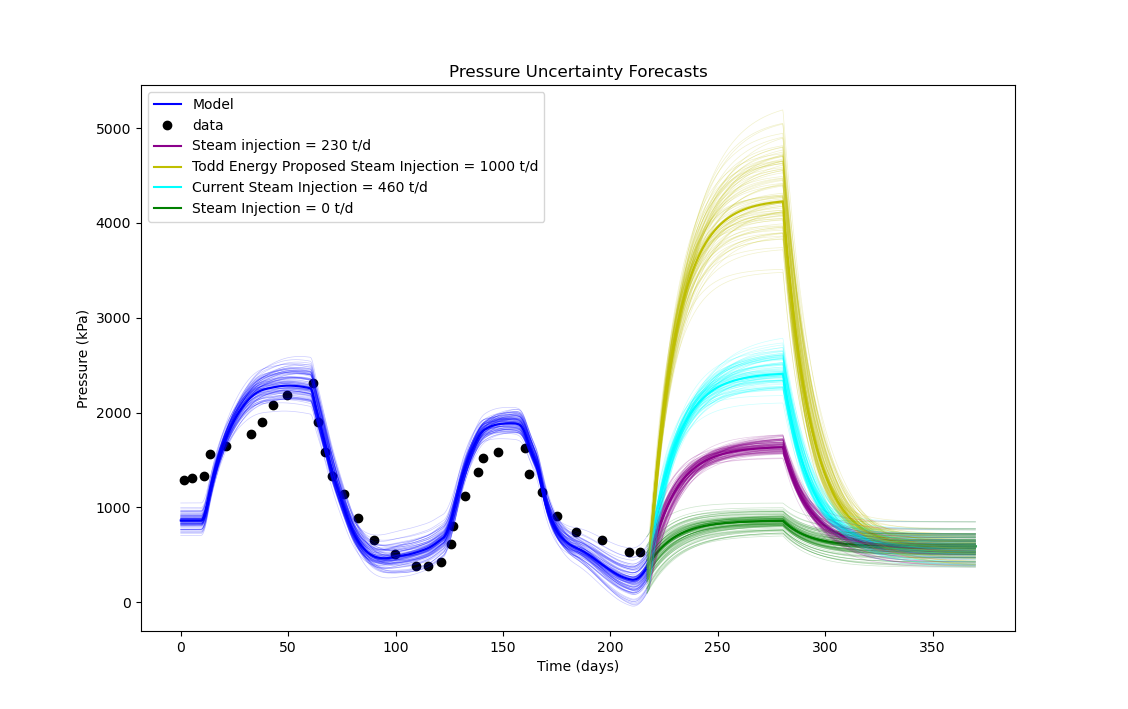
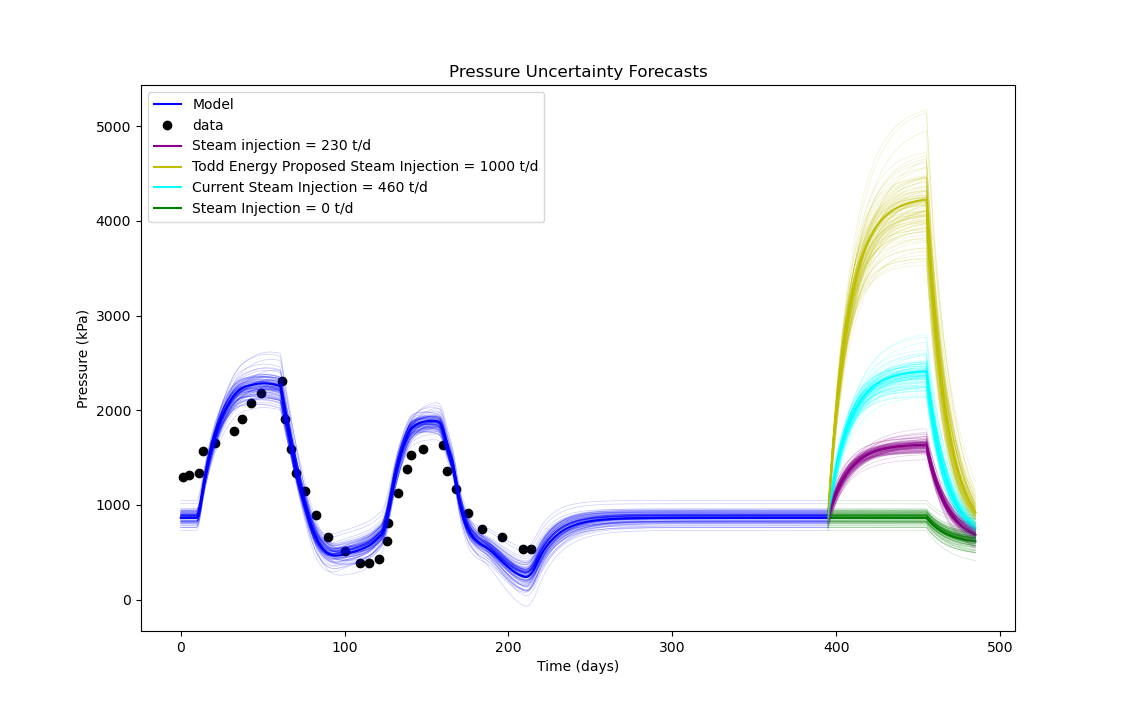
Updated forecasts and uncertainty plots with correct time domain

diff --git a/main.py b/main.py
@@ -134,7 +134,7 @@ class Qterms:
         self.interpSteam = interp1d(steam[0], steam[1])
 
         # Storing the time values for injection end and projection end of forecasts.
-        self.forcInjecEnd = temp[0][-1] + 60
+        self.forcInjecEnd = 395 + 60
         self.forcProducEnd = self.forcInjecEnd + 90
 
         # Assigns value to be used for qs during injection period.
@@ -285,8 +285,9 @@ if __name__ == "__main__":
     [ax.grid() for ax in axa] 
 
 
+
     # Initial pressure model fitting:
-    t1=np.linspace(0,217,2170)
+    t1=np.linspace(0,395,3950)
 
     # first pressure model initial guesses:
     a = 0.2
@@ -310,8 +311,8 @@ if __name__ == "__main__":
     ax9[1].plot(pressure[0],pressureMisfit,'kx')
     ax9[1].plot(pressure[0],np.zeros(len(pressureMisfit)),'r--')
     ax9[0].plot(t1,P,'k--',label='a = {:3f}\nb = {:3f}'.format(parsFoundP[0],parsFoundP[1]))
-    ax9[0].set_xlim([0, tsolP[-1]])
-    ax9[1].set_xlim([0, tsolP[-1]])
+    ax9[0].set_xlim([0, pressure[0][-1]])
+    ax9[1].set_xlim([0, pressure[0][-1]])
     ax9[0].set_ylabel('Pressure [kPa]')
     ax9[0].set_xlabel('Time [days]')
     ax9[0].set_title('Comparison of model to observed pressure value')
@@ -341,8 +342,8 @@ if __name__ == "__main__":
     ax8[0].plot(t1, np.ones(len(t1)) * 240, 'g-', label = 'Toxic Contaminant\nDissociation Temperature')
     ax8[1].plot(temp[0],tempMisfit,'kx')
     ax8[1].plot(temp[0],temp[0]*0,'r--')
-    ax8[0].set_xlim([0, t1[-1]])
-    ax8[1].set_xlim([0, t1[-1]])
+    ax8[0].set_xlim([0, temp[0][-1]])
+    ax8[1].set_xlim([0, temp[0][-1]])
     ax8[0].set_ylabel('Temperature [°C]')
     ax8[0].set_xlabel('Time [days]')
     ax8[0].set_title('Comparison of model to observed \n temperature value')
@@ -374,8 +375,8 @@ if __name__ == "__main__":
     ax1[1].plot(pressure[0],pressureMisfit,'kx')
     ax1[1].plot(pressure[0],np.zeros(len(pressureMisfit)),'r--')
     ax1[0].plot(t1,P,'k--',label='a = {:3f}\nb = {:3f}\nP0 = {:3f}'.format(parsFoundP[0],parsFoundP[1],parsFoundP[2]))
-    ax1[0].set_xlim([0, tsolP[-1]])
-    ax1[1].set_xlim([0, tsolP[-1]])
+    ax1[0].set_xlim([0, pressure[0][-1]])
+    ax1[1].set_xlim([0, pressure[0][-1]])
     ax1[0].set_ylabel('Pressure [kPa]')
     ax1[0].set_xlabel('Time [days]')
     ax1[0].set_title('Comparison of model to observed pressure value')
@@ -406,8 +407,8 @@ if __name__ == "__main__":
     ax2[0].plot(t1, np.ones(len(t1)) * 240, 'g-', label = 'Toxic Contaminant\nDissociation Temperature')
     ax2[1].plot(temp[0],tempMisfit,'kx')
     ax2[1].plot(temp[0],temp[0]*0,'r--')
-    ax2[0].set_xlim([0, t1[-1]])
-    ax2[1].set_xlim([0, t1[-1]])
+    ax2[0].set_xlim([0, temp[0][-1]])
+    ax2[1].set_xlim([0, temp[0][-1]])
     ax2[0].set_ylabel('Temperature [°C]')
     ax2[0].set_xlabel('Time [days]')
     ax2[0].set_title('Comparison of model to observed \n temperature value')
@@ -422,7 +423,7 @@ if __name__ == "__main__":
 
 
     # Forecasts:
-    tf = np.linspace(0, 370, 3700)
+    tf = np.linspace(t1[-1], 485, 900)
     # Forecast 1
     # Tood Energy proposal of steam injection of 1000 tonnes per day 60 days, followed by 90 day production periods.
     Qf1 = Qterms(1000)
@@ -475,10 +476,10 @@ if __name__ == "__main__":
     f5, ax5 = plt.subplots(1,1)
     ax5.plot(t1, P, 'b-', label = 'Model')
     ax5.plot(pressure[0], pressure[1], 'ko', label = 'data')
-    ax5.plot(tf[startForc:], FP4[startForc:], color = '#8B008B', ls = '-', label = 'Steam Injection = 230 t/d')
-    ax5.plot(tf[startForc:], FP1[startForc:], 'y-', label = 'Todd Energy Proposed Steam Injection = 1000 t/d')
-    ax5.plot(tf[startForc:], FP3[startForc:], color = '#00FFFF', ls = '-', label = 'Current Steam Injection = 460 t/d')
-    ax5.plot(tf[startForc:], FP2[startForc:], 'g-', label = 'Steam Injection = 0 t/d')
+    ax5.plot(tf, FP4, color = '#8B008B', ls = '-', label = 'Steam Injection = 230 t/d')
+    ax5.plot(tf, FP1, 'y-', label = 'Todd Energy Proposed Steam Injection = 1000 t/d')
+    ax5.plot(tf, FP3, color = '#00FFFF', ls = '-', label = 'Current Steam Injection = 460 t/d')
+    ax5.plot(tf, FP2, 'g-', label = 'Steam Injection = 0 t/d')
     ax5.legend()
     ax5.text(x = 10, y = 130, s = 'All forecasted injection phases are 60 days, followed by 90 day production periods.', bbox = dict(facecolor='none', edgecolor='black', pad=5.0))
     ax5.set_xlim([t1[0], tf[-1]])
@@ -490,10 +491,10 @@ if __name__ == "__main__":
     fig,ax = plt.subplots(1,1)
     ax.plot(t1, P, 'b-', label = 'Model')
     ax.plot(pressure[0], pressure[1], 'ko', label = 'data')
-    ax.plot(tf[startForc:], FP4[startForc:], color = '#8B008B', ls = '-', label = 'Steam injection = 230 t/d')
-    ax.plot(tf[startForc:], FP1[startForc:], 'y-', label = 'Todd Energy Proposed Steam Injection = 1000 t/d')
-    ax.plot(tf[startForc:], FP3[startForc:], color = '#00FFFF', ls = '-', label = 'Current Steam Injection = 460 t/d')
-    ax.plot(tf[startForc:], FP2[startForc:], 'g-', label = 'Steam Injection = 0 t/d')
+    ax.plot(tf, FP4, color = '#8B008B', ls = '-', label = 'Steam injection = 230 t/d')
+    ax.plot(tf, FP1, 'y-', label = 'Todd Energy Proposed Steam Injection = 1000 t/d')
+    ax.plot(tf, FP3, color = '#00FFFF', ls = '-', label = 'Current Steam Injection = 460 t/d')
+    ax.plot(tf, FP2, 'g-', label = 'Steam Injection = 0 t/d')
     ax.set_title('Pressure Uncertainty Forecasts')
     ax.set_xlabel('Time (days)')
     ax.set_ylabel('Pressure (kPa)')
@@ -520,10 +521,10 @@ if __name__ == "__main__":
         t, FP4 = solvePressure(tf, tf[1]-tf[0], pi[2], Qf4.giveQ, pi)
         #plotting commands
         ax.plot(tsolP, P, 'b-', alpha=0.2, lw=0.5)
-        ax.plot(tf[startForc:], FP4[startForc:], color = '#8B008B', alpha=0.2, lw=0.5)
-        ax.plot(tf[startForc:], FP1[startForc:], 'y-', alpha=0.2, lw=0.5)
-        ax.plot(tf[startForc:], FP3[startForc:], color = '#00FFFF', alpha=0.2, lw=0.5)
-        ax.plot(tf[startForc:], FP2[startForc:], 'g-', alpha=0.2, lw=0.5)
+        ax.plot(tf, FP4, color = '#8B008B', alpha=0.2, lw=0.5)
+        ax.plot(tf, FP1, 'y-', alpha=0.2, lw=0.5)
+        ax.plot(tf, FP3, color = '#00FFFF', alpha=0.2, lw=0.5)
+        ax.plot(tf, FP2, 'g-', alpha=0.2, lw=0.5)
 
 
     # uncertainity for temperature plot
@@ -531,10 +532,10 @@ if __name__ == "__main__":
     fig,ax6 = plt.subplots(1,1)
     ax6.plot(t1,T,'b-',label='Model')
     ax6.plot(temp[0],temp[1],'ko',label='data')
-    ax6.plot(tf[startForc:], FT4[startForc:], color = '#8B008B', ls = '-', label = 'Steam Injection = 230 t/d')
-    ax6.plot(tf[startForc:], FT1[startForc:], 'y-', label = 'Todd Energy Proposed\nSteam Injection = 1000 t/d')
-    ax6.plot(tf[startForc:], FT3[startForc:], color = '#00FFFF', ls = '-', label = 'Current Steam Injection = 460 t/d')
-    ax6.plot(tf[startForc:], FT2[startForc:], 'g-', label = 'Steam Injection = 0 t/d')
+    ax6.plot(tf, FT4, color = '#8B008B', ls = '-', label = 'Steam Injection = 230 t/d')
+    ax6.plot(tf, FT1, 'y-', label = 'Todd Energy Proposed\nSteam Injection = 1000 t/d')
+    ax6.plot(tf, FT3, color = '#00FFFF', ls = '-', label = 'Current Steam Injection = 460 t/d')
+    ax6.plot(tf, FT2, 'g-', label = 'Steam Injection = 0 t/d')
     ax6.plot(tOverall,np.ones(len(tOverall)) * 240,'r-', label =  'Toxic Contaminant\nDissociation Temperature')
     ax6.set_xlabel('Time (Days)')
     ax6.set_ylabel('Temperature (°C)')
@@ -554,7 +555,7 @@ if __name__ == "__main__":
         t, FP1 = solvePressure(tf, tf[1]-tf[0], parsFoundP[2], Qf1.giveQ, parsFoundP)
         t, FT1 = solveTemperature(tf, tf[1]-tf[0], FP1, Qf1.giveQs, parsFoundP[0],\
             parsFoundP[1], pi[0], pi[1], parsFoundP[2], pi[2])
-        empty1.append(max(FT1[startForc:]))
+        empty1.append(max(FT1))
         histo.append(max(FT1))
         # Forecast 2
         # No steam injection
@@ -562,27 +563,27 @@ if __name__ == "__main__":
         t, FP2 = solvePressure(tf, tf[1]-tf[0], parsFoundP[2], Qf2.giveQ, parsFoundP)
         t, FT2 = solveTemperature(tf, tf[1]-tf[0], FP2, Qf2.giveQs, parsFoundP[0],\
             parsFoundP[1], pi[0], pi[1], parsFoundP[2], pi[2])
-        empty2.append(max(FT2[startForc:]))
+        empty2.append(max(FT2))
         # Forecast 3
         # Current steam injection of 460 tonnes per day for 60 days, followed by 90 day production periods.
         Qf3 = Qterms(460)
         t, FP3 = solvePressure(tf, tf[1]-tf[0], parsFoundP[2], Qf3.giveQ, parsFoundP)
         t, FT3 = solveTemperature(tf, tf[1]-tf[0], FP3, Qf3.giveQs, parsFoundP[0],\
             parsFoundP[1], pi[0], pi[1], parsFoundP[2], pi[2])
-        empty3.append(max(FT3[startForc:]))
+        empty3.append(max(FT3))
         # Forecast 4
         # steam injection of 230 tonnes per day 60 days, followed by 90 day production periods.
         Qf4 = Qterms(230)
         t, FP4 = solvePressure(tf, tf[1]-tf[0], parsFoundP[2], Qf4.giveQ, parsFoundP)
         t, FT4 = solveTemperature(tf, tf[1]-tf[0], FP4, Qf4.giveQs, parsFoundP[0],\
             parsFoundP[1], pi[0], pi[1], parsFoundP[2], pi[2])    
-        empty4.append(max(FT4[startForc:]))
+        empty4.append(max(FT4))
         #plotting commands
         ax6.plot(tsolT, T, 'b-', alpha=0.2, lw=0.5)
-        ax6.plot(tf[startForc:], FT4[startForc:], color = '#8B008B', alpha=0.2, lw=0.5)
-        ax6.plot(tf[startForc:], FT1[startForc:], 'y-', alpha=0.2, lw=0.5)
-        ax6.plot(tf[startForc:], FT3[startForc:], color = '#00FFFF', alpha=0.2, lw=0.5)
-        ax6.plot(tf[startForc:], FT2[startForc:], 'g-', alpha=0.2, lw=0.5)
+        ax6.plot(tf, FT4, color = '#8B008B', alpha=0.2, lw=0.5)
+        ax6.plot(tf, FT1, 'y-', alpha=0.2, lw=0.5)
+        ax6.plot(tf, FT3, color = '#00FFFF', alpha=0.2, lw=0.5)
+        ax6.plot(tf, FT2, 'g-', alpha=0.2, lw=0.5)
         tsolT, T = solveTemperature(t1, t1[1]-t1[0], P, Q.giveQs, parsFoundP[0],\
         parsFoundP[1], pi[0], pi[1], parsFoundP[2], pi[2])
         ax6.plot(t1,T,'b-',alpha=0.2,lw=0.5)
